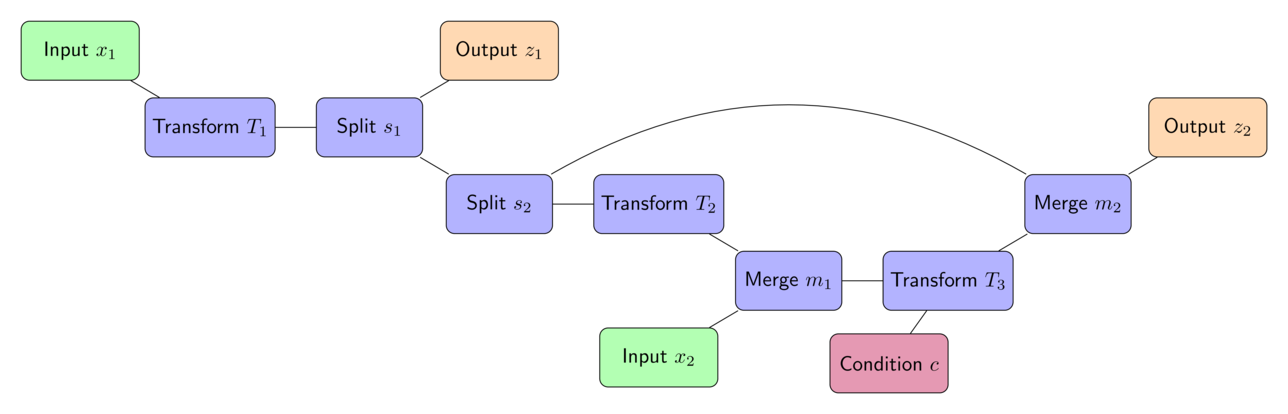
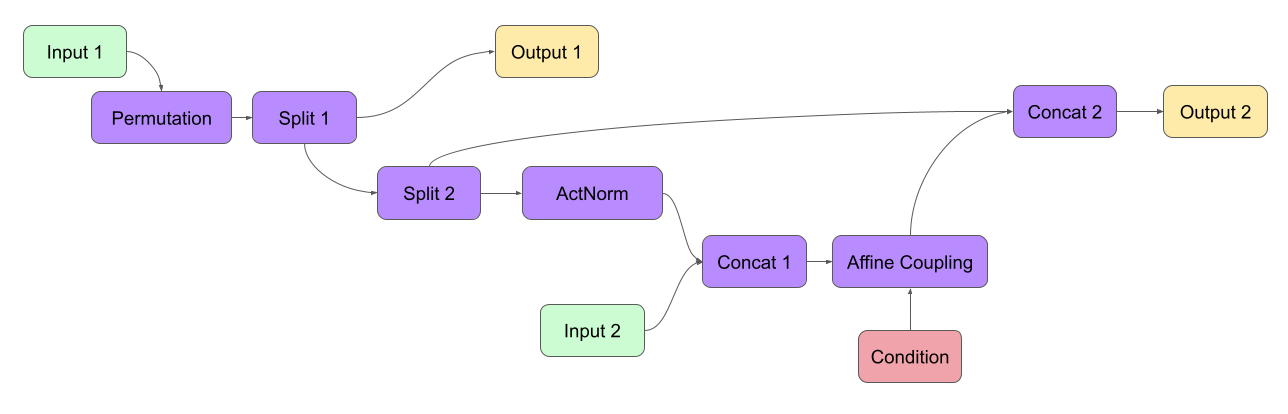
Tutorial: remade INN diagram with actually implemented functions and modified code example to match. Right now actually running the code throws an error on the forward pass. Still need to update parts of the tutorial text to match the changes.

diff --git a/README.rst b/README.rst
@@ -124,7 +124,7 @@ To jump straight into the code, see this basic usage example, which learns and t
 				x = torch.Tensor(data)
 				# pass to INN and get transformed variable z and log Jacobian determinant
 				z, log_jac_det = inn(x)
-				# calculate the negative log-likelihood of a standard normal distribution
+				# calculate the negative log-likelihood of the model with a standard normal prior
 				loss = 0.5*torch.sum(z**2, 1) - log_jac_det
 				loss = loss.mean() / N_DIM
 				# backpropagate and update the weights
@@ -189,7 +189,7 @@ More specifically:
 
   .. code:: python
 
-   in1 = InputNode(3, 32, 32, name='Input x_1')
+   in1 = InputNode(3, 32, 32, name='Input 1')
 
   The ``name`` argument can be omitted in principle, but it is recommended in
   general, as it appears e.g. in error messages.
@@ -202,18 +202,18 @@ More specifically:
 * Each ``Node`` is initialized given a list of its inputs as the first
   constructor argument, along with other arguments covered later (omitted as
   '``...``' in the following, in particular defining what operation the node
-  should represent). For transform *T1* in the example above, this would look
+  should represent). For *Permutation* in the example above, this would look
   like the this:
 
   .. code:: python
 
-    transf1 = Node([in1.out0], ..., name='Transform T_1')
+    perm = Node([in1.out0], ..., name='Permutation')
 
-  Or for merge *m2*:
+  Or for *Merge 2*:
 
   .. code:: python
 
-    merge2 = Node([transf3.out0, split2.out1], ..., name='Merge m_2')
+    merge2 = Node([affine.out0, split2.out1], ..., name='Merge 2')
 
   Conditions are passed as a list through the ``conditions`` argument:
 
@@ -247,34 +247,40 @@ following way:
 
   .. code:: python
 
-   in1 = InputNode(3, 32, 32, name='Input x_1') # 3-channel image
-   in2 = InputNode(128, name='Input x_2') # 1D vector
-   cond = ConditionNode(42, name='Condition c')
+    in1 = Ff.InputNode(100, name='Input 1') # 1D vector
+    in2 = Ff.InputNode(20, name='Input 2') # 1D vector
+    cond = Ff.ConditionNode(42, name='Condition')
 
-   transf1 = Node([in1.out0], ..., name='Transform T_1')
-   split1 =  Node([transf1.out0], ..., name='Split s_1')
-   split2 =  Node([split1.out0], ..., name='Split s_2')
-   transf2 = Node([split2.out0], ..., name='Transform T_2')
-   merge1 =  Node([transf2.out0, in2.out0], ..., name='Merge m_1')
-   transf3 = Node([merge1.out0], ..., conditions=[cond], name='Transform T_3')
-   merge2 =  Node([transf2.out0, split2.out1], ..., name='Merge m_2')
+    def subnet(dims_in, dims_out): 
+        return nn.Sequential(nn.Linear(dims_in, 256), nn.ReLU(), 
+                             nn.Linear(256, dims_out))
 
-   output1 = Node([split1.out1], ..., name='Output z_1')
-   output2 = Node([merge2.out0], ..., name='Output z_2')
+    perm = Ff.Node(in1.out0, Fm.PermuteRandom, {}, name='Permutation')
+    split1 =  Ff.Node(perm.out0, Fm.Split, {}, name='Split 1')
+    split2 =  Ff.Node(split1.out1, Fm.Split, {}, name='Split 2')
+    actnorm = Ff.Node(split2.out1, Fm.ActNorm, {}, name='ActNorm')
+    concat1 =  Ff.Node([actnorm.out0, in2.out0], Fm.Concat, {}, name='Concat 1')
+    affine = Ff.Node(concat1.out0, Fm.AffineCouplingOneSided, {'subnet_constructor': subnet}, 
+                     conditions=cond, name='Affine Coupling')
+    concat2 =  Ff.Node([split2.out0, affine.out0], Fm.Concat, {}, name='Concat 2')
 
-   example_INN = ReversibleGraphNet([in1, in2, output1, output2, cond,
-                                     transf1, transf2, transf3,
-                                     merge1, merge2, split1, split2], verbose=False)
+    output1 = Ff.OutputNode(split1.out0, name='Output 1')
+    output2 = Ff.OutputNode(concat2.out0, name='Output 2')
 
-   # dummy inputs:
-   x1, x2, cond = torch.randn(1,3,32,32), torch.randn(1, 128), torch.randn(1, 42)
+    example_INN = Ff.ReversibleGraphNet([in1, in2, cond,
+                                         perm, split1, split2,
+                                         actnorm, concat1, affine, concat2, 
+                                         output1, output2], verbose=True)
 
-   # compute the outputs
-   z1, z2 = example_INN([x1, x2], c=cond)
+    # dummy inputs:
+    x1, x2, c = torch.randn(1, 100), torch.randn(1, 20), torch.randn(1, 42)
 
-   # invert the network and check if we get the original inputs back:
-   x1_inv, x2_infv = example_INN([z1, z2], c=cond, rev=True)
-   assert (torch.max(torch.abs(x1_inv - x1)) < 1e-5
+    # compute the outputs
+    z1, z2 = example_INN([x1, x2], c=c)
+
+    # invert the network and check if we get the original inputs back:
+    x1_inv, x2_inv = example_INN([z1, z2], c=c, rev=True)
+    assert (torch.max(torch.abs(x1_inv - x1)) < 1e-5
            and torch.max(torch.abs(x2_inv - x2)) < 1e-5)
 
 Node Construction
